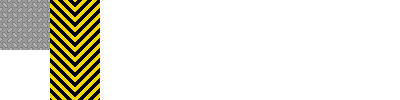
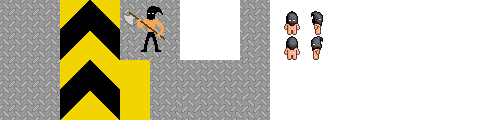
A few changes

diff --git a/index.html b/index.html
@@ -76,8 +76,8 @@ filter: grayscale(100%); /* edge browsers */
 }
 
 .Cell{
-width: 50px;
-height: 50px;
+width: 60px;
+height: 60px;
 background-image: url(tiles.jpg);
 display: table-cell;
 }
@@ -90,7 +90,15 @@ opacity: 0.85;
 content: "locked"; Caused issues in FF
 }*/
 .Belt{
-background-position: -50px /*<<step*/50px/*step>>*/;
+background-position: -60px /*<<step*/0px/*step>>*/;
+}
+.Executioner{
+background-position: -120px 0px;
+transform: none !important;
+-ms-transform: none !important;
+-moz-transform: none !important;
+-webkit-transform: none !important;
+-o-transform: none !important;
 }
 .Up{
 }
@@ -272,10 +280,13 @@ startinterval = setInterval(function(){
 	///width: number of cells per row
 	///height: number of cells per column
 	///onStart: function that is called after the level is loaded with start()
+	///onStep: this function is called every step
+	///onOut: this function is called whenever a monster exits
+	///placeableCells: Array of classNames that represent
 	///lockedCells: cells that cannot be changed by the user
-	function level(name, width, height, onStart/*, lockedCells...*/){
+	function level(name, width, height, onStart, onStep, onOut, placeableCells/*, lockedCells...*/){
 		this.lockedCells = Array();
-		for (var i = 4; i < arguments.length; i++){
+		for (var i = 6; i < arguments.length; i++){
 			if (arguments[i] != undefined){
 				this.lockedCells.push(arguments[i]);
 			}
@@ -287,24 +298,37 @@ startinterval = setInterval(function(){
 			document.body.innerHTML="";
 			var	cell,
 				container,
-				grid = document.createElement("div");
+				grid = document.createElement("div"),
+				blockSelector;
 			grid.className = "Centered";
-			grid.style.width = width*50+'px';
-			grid.style.height = height*50+'px';
-			grid.style.backgroundColor = "#fff";
+			grid.style.width = width*60+'px';
+			grid.style.height = height*60+'px';
+			grid.style.backgroundColor = "#666";
 			for (var y = 0; y < height; y++){
 				grid.appendChild(container = document.createElement("div"));
 				for (var x = 0; x < width; x++){
 					container.appendChild(cell = document.createElement("div"));
-					cell.className = "Cell"
+					cell.className = "Cell";
 				}
 			}
 			for (var i in this.lockedCells){
 				grid.childNodes[this.lockedCells[i].y].childNodes[this.lockedCells[i].x].className = this.lockedCells[i].className;
 			}
+			
 			document.body.appendChild(grid);
 			if (onStart)
 				onStart();
+			var stepInterval = setInterval(function(){
+				var step = 
+				document.getElementById("style").innerHTML.replace(
+					/(\/\*<<(.*?)\*\/).*?(\/\*>>\*\/)/g,
+					function(match,left,command,right){
+						return left + eval(command) + right;
+					}
+				);
+				if (onStep)
+					onStep();
+			},50);
 		}
 	}
 	
@@ -320,11 +344,13 @@ startinterval = setInterval(function(){
 		"Organize":	[],
 		"Pattern":	[],
 		"Algorithm":	[
-			new level("Medusa",5,5,false,
-				{x:0,y:2,className:"Locked Left Belt Cell"},
-				{x:1,y:2,className:"Locked Left Belt Cell"},
-				{x:2,y:2,className:"Locked Left Belt Cell"}
-				)]
+			new level("Medusa",5,5,false,false,false,
+				{x:0,y:1,className:"Locked Right Belt Cell"},
+				{x:1,y:1,className:"Locked Right Belt Cell"},
+				{x:2,y:1,className:"Locked Right Belt Cell"},
+				{x:2,y:0,className:"Locked Down Executioner Cell"}
+				)
+			]
 	}
 	
 /*	
